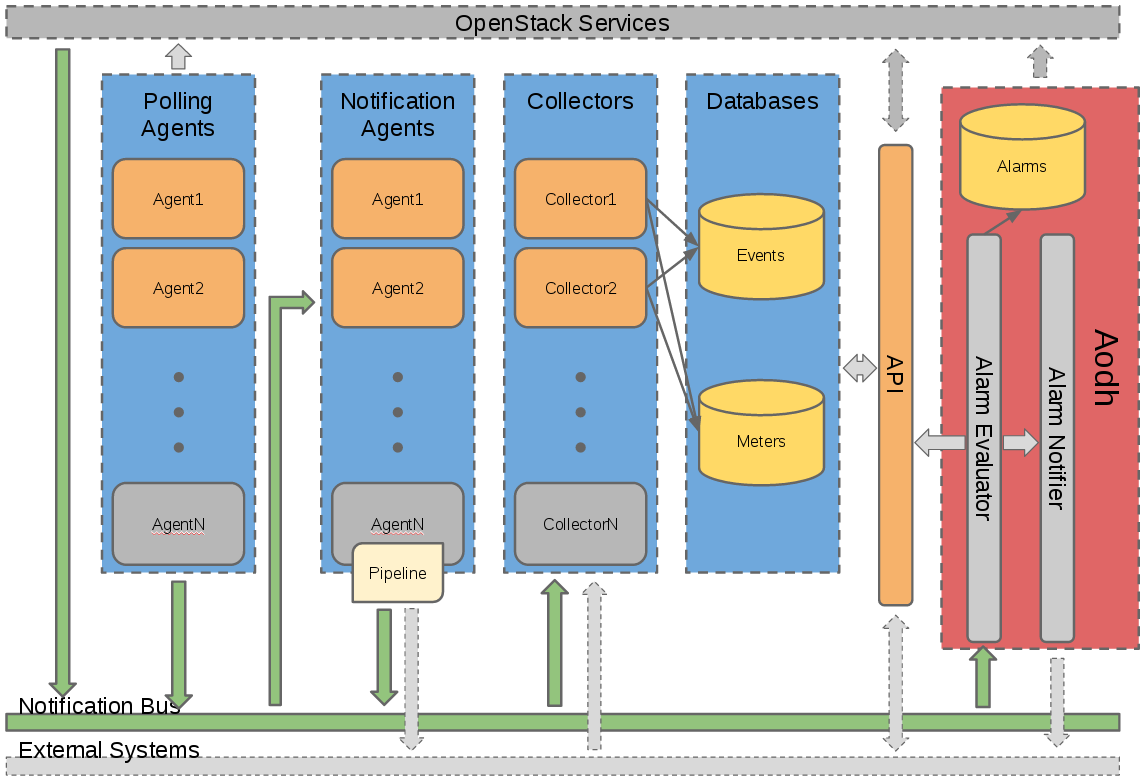
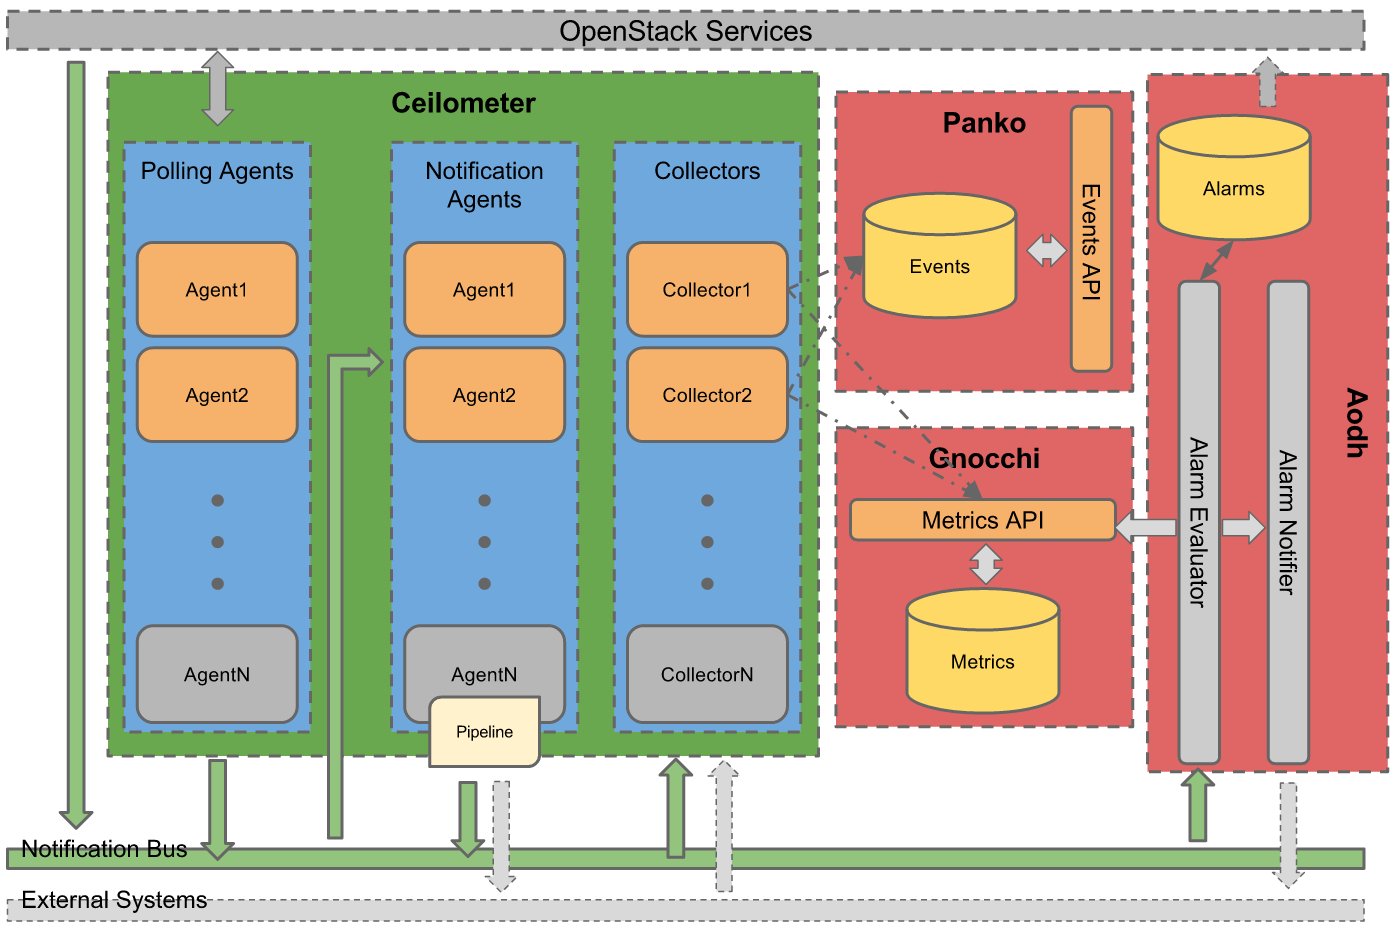
update docs to show Telemetry projects
show division of ceilometer/gnocchi/aodh/panko in telemetry

diff --git a/doc/source/architecture.rst b/doc/source/architecture.rst
@@ -37,20 +37,17 @@ collection, but also designed to work together as a complete solution:
 4. (optional) api - service to query and view data recorded by collector
    in internal full-fidelity database (if enabled).
 
-As Ceilometer has grown to capture more data, it became apparent that data
-storage would need to be optimised. To address this, Gnocchi_ (resource metering
-as a service) was developed to capture the data in a time series database to
+Data normalised and collected by Ceilometer can be sent to various targets.
+Gnocchi_ was developed to capture measurement data in a time series database to
 optimise storage and querying. Gnocchi is intended to replace the existing
-metering database interface.
+metering database interface. Additionally, Aodh_ is the alarming service which
+can be send notifications when user defined rules are broken. Lastly, Panko_ is
+the event storage project designed to capture document-oriented data such as
+logs and system event actions.
 
 .. _Gnocchi: http://docs.openstack.org/developer/gnocchi/
-
-.. figure:: ./ceilo-gnocchi-arch.png
-   :width: 100%
-   :align: center
-   :alt: Ceilometer+Gnocchi Architecture summary
-
-   An overall summary of Ceilometer+Gnocchi's logical architecture.
+.. _Aodh: http://docs.openstack.org/developer/aodh
+.. _Panko: http://docs.openstack.org/developer/panko
 
 
 Gathering the data
